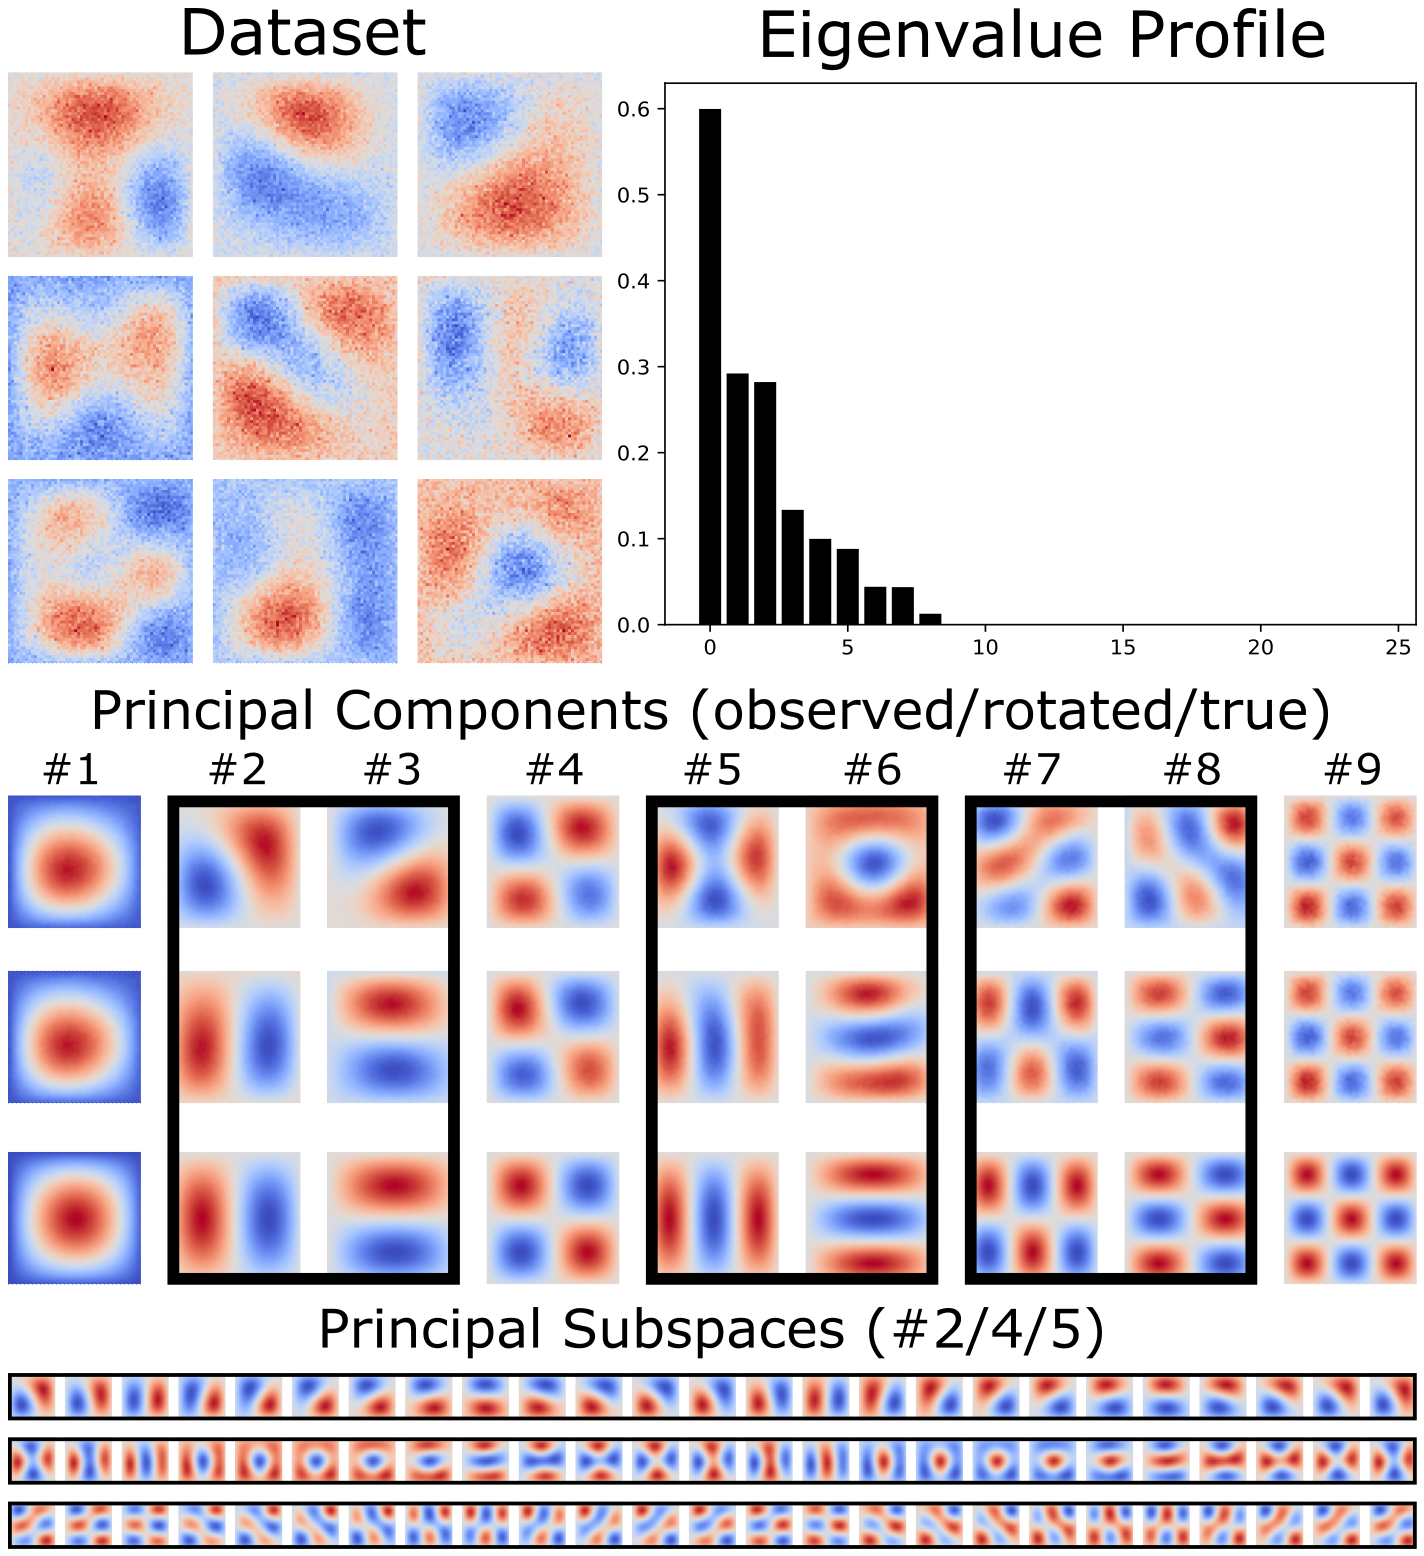
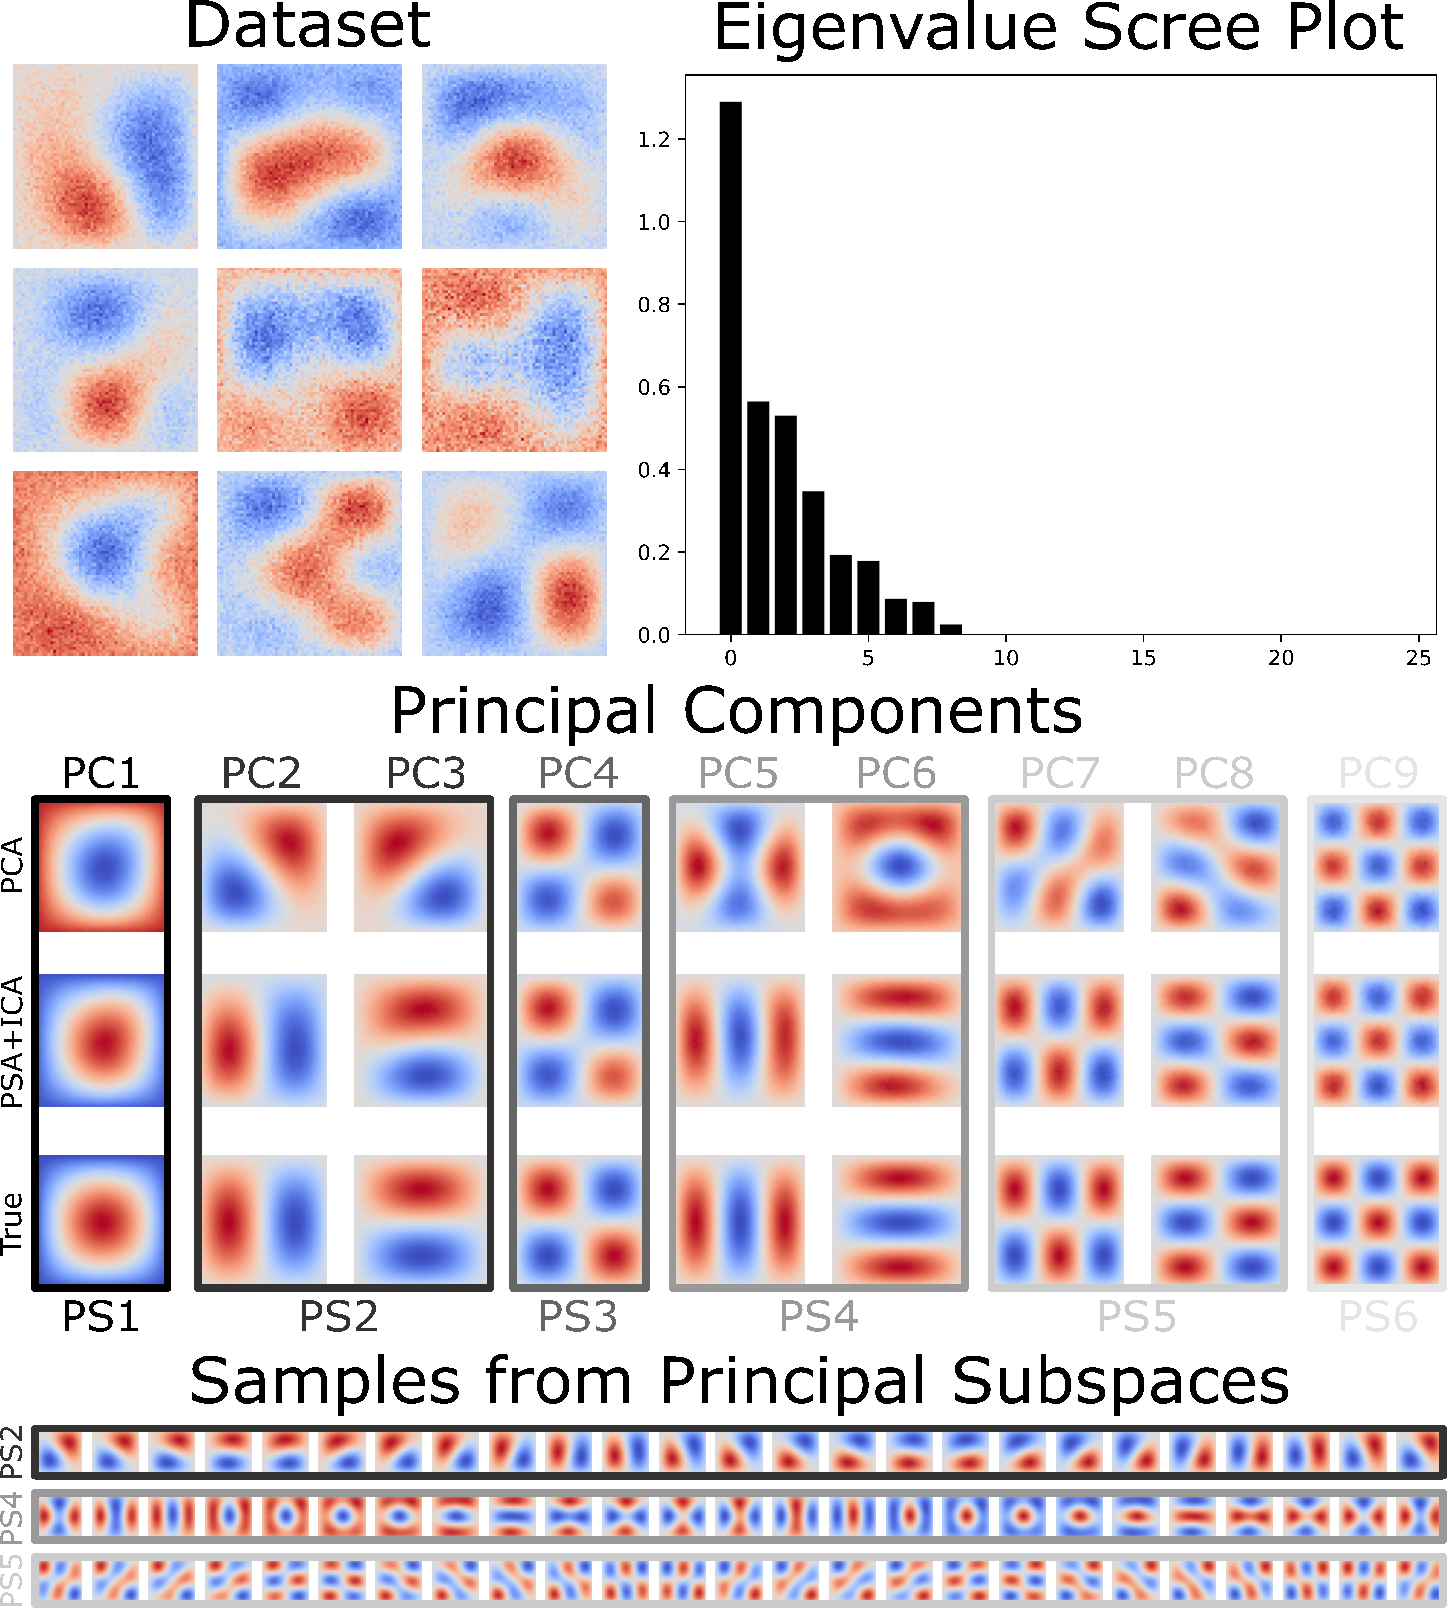
update experiments with "PSA+ICA" methodology, add LR tests and update README.md

diff --git a/experiments/laplacian_eigenfunctions.py b/experiments/laplacian_eigenfunctions.py
@@ -3,7 +3,7 @@ We first generate a dataset similarly as in North et al.'s paper, i.e. linear co
 with variance being a decreasing function of the Laplacian eigenvalue.
 Then we compute the BIC of PPCA model of type (1, 1, 1, 1, 1, 1, 1, 1, 1, 4087) and compare it to a PSA model of type (1, 2, 1, 2, 2, 1, 4087).
 The PSA model has a lower BIC, therefore we choose it.
-Eventually, we perform factor rotation by projecting the original Laplacian eigenmodes onto the multidimensional principal subspaces.
+Eventually, we perform subspace ICA and factor rotation by projecting the original Laplacian eigenmodes onto the multidimensional principal subspaces.
 While principal components degenerate into quasimodes (random mixtures of eigenmodes), principal subspace analysis finds back
 components much closer to the original eigenmodes. We also perform subspace exploration by sampling uniformly from the 2-spheres inside
 the principal subspaces and get low-frequency feature subspaces.
@@ -14,6 +14,7 @@ import numpy as np
 import matplotlib
 matplotlib.use("TkAgg")
 import matplotlib.pyplot as plt
+from sklearn.decomposition import FastICA
 
 from utils import evd, bic
 
@@ -30,8 +31,8 @@ def generate_laplacian_data(size=500, L=64, order=3):
             lambda_nm = (n * np.pi / L) ** 2 + (m * np.pi / L) ** 2  # Laplacian eigenvalue
             u_nm = np.sin(n * np.pi * grid[0] / L) * np.sin(m * np.pi * grid[1] / L)  # Laplacian eigenfunction
             u_nm /= np.linalg.norm(u_nm)
-            modes.append(u_nm); variances.append(np.exp(- 50 * lambda_nm) ** 2 + 0.005 ** 2)
-            coeff = np.random.normal(0, np.exp(- 50 * lambda_nm), size=size)  # coefficient is drawn from a normal distribution with particular variance
+            modes.append(u_nm); variances.append(2 * np.exp(- 50 * lambda_nm) ** 2)
+            coeff = np.random.laplace(0, np.exp(- 50 * lambda_nm), size=size)  # coefficient is drawn from a laplace distribution with particular variance
             X_img += coeff[:, None, None] * u_nm
     X_img += np.random.normal(0, 0.005, size=X_img.shape)  # we add Gaussian noise with small variance
     modes = np.array(modes)[np.argsort(variances)[::-1]]
@@ -43,7 +44,7 @@ if __name__ == "__main__":
 
     # Generate dataset
     L = 64
-    n = 500
+    n = 600
     order = 3
     X_img, modes = generate_laplacian_data(size=n, L=L, order=order)
 
@@ -69,7 +70,7 @@ if __name__ == "__main__":
     bic_psa = bic((1, 2, 1, 2, 2, 1) + (L * L - 9,), eigval, n)
 
     # Plot true Laplacian eigenmodes
-    fig, axes = plt.subplots(3, 9)
+    fig, axes = plt.subplots(4, 9)
     for j, ax in enumerate(axes[0]):
         ax.imshow((modes[j]))
         ax.set_xticklabels([])
@@ -84,10 +85,10 @@ if __name__ == "__main__":
         ax.axis('off')
 
     # Plot rotated principal components (via orthogonal projection of true eigenmodes into principal subspaces)
-    axes[2, 0].imshow((eigvec[:, 0]).reshape(L, L))
+    axes[2, 0].imshow(-(eigvec[:, 0]).reshape(L, L))
     axes[2, 1].imshow((eigvec[:, 1:3] @ eigvec[:, 1:3].T @ modes[1].flatten()).reshape(L, L))
     axes[2, 2].imshow((eigvec[:, 1:3] @ eigvec[:, 1:3].T @ modes[2].flatten()).reshape(L, L))
-    axes[2, 3].imshow((-eigvec[:, 3]).reshape(L, L))
+    axes[2, 3].imshow((eigvec[:, 3]).reshape(L, L))
     axes[2, 4].imshow((eigvec[:, 4:6] @ eigvec[:, 4:6].T @ modes[4].flatten()).reshape(L, L))
     axes[2, 5].imshow((eigvec[:, 4:6] @ eigvec[:, 4:6].T @ modes[5].flatten()).reshape(L, L))
     axes[2, 6].imshow((eigvec[:, 6:8] @ eigvec[:, 6:8].T @ modes[6].flatten()).reshape(L, L))
@@ -97,6 +98,46 @@ if __name__ == "__main__":
         ax.set_xticklabels([])
         ax.set_yticklabels([])
         ax.axis('off')
+
+    # Plot rotated principal components (via ICA)
+    axes[3, 0].imshow(-(eigvec[:, 0]).reshape(L, L))
+    ica = FastICA()
+    X_proj = X @ eigvec[:, 1:3]
+    plt.figure()
+    plt.scatter(*X_proj.T)
+    plt.title("PS2")
+    plt.show()
+    ica.fit(X_proj)
+    U_ica = ica.components_ @ eigvec[:, 1:3].T
+    axes[3, 1].imshow(-U_ica[1].reshape(L, L))
+    axes[3, 2].imshow(-U_ica[0].reshape(L, L))
+    axes[3, 3].imshow((eigvec[:, 3]).reshape(L, L))
+    ica = FastICA()
+    X_proj = X @ eigvec[:, 4:6]
+    plt.figure()
+    plt.scatter(*X_proj.T)
+    plt.title("PS2")
+    plt.show()
+    ica.fit(X_proj)
+    U_ica = ica.components_ @ eigvec[:, 4:6].T
+    axes[3, 4].imshow(-U_ica[0].reshape(L, L))
+    axes[3, 5].imshow(U_ica[1].reshape(L, L))
+    ica = FastICA()
+    X_proj = X @ eigvec[:, 6:8]
+    plt.figure()
+    plt.scatter(*X_proj.T)
+    plt.title("PS2")
+    plt.show()
+    ica.fit(X_proj)
+    U_ica = ica.components_ @ eigvec[:, 6:8].T
+    axes[3, 6].imshow(U_ica[0].reshape(L, L))
+    axes[3, 7].imshow(U_ica[1].reshape(L, L))
+    axes[3, 8].imshow(-(eigvec[:, 8]).reshape(L, L))
+    for ax in axes[3]:
+        ax.set_xticklabels([])
+        ax.set_yticklabels([])
+        ax.axis('off')
+    plt.show()
 
     # Generate samples from the second, fourth and fifth principal subspace (2D)
     fig, axes = plt.subplots(3, 25)

diff --git a/experiments/relative_eigengap.py b/experiments/relative_eigengap.py
@@ -1,9 +1,10 @@
-""" This file implements relative eigengap thresholds under different model selection criteria: AIC, AICc, BIC and North's rule-of-thumb (NRT-1).
+""" This file implements relative eigengap thresholds under different model selection criteria: AIC, AICc, BIC, LR test and North's rule-of-thumb (NRT).
 Those are first compared theoretically via curve plots and second practically on classical real datasets from the UCI ML Repository (https://archive.ics.uci.edu/).
 We can see that NRT-1 has globally the lowest relative eigengaps, followed by AIC, AICc, NRT-2 and BIC.
 Therefore, the BIC more frequently equalizes close-eigenvalues than other methods and has the biggest impact on the PCA methodology.
-On real data, all the methods suggest to consider principal subspaces of dimension greater than $1$, including North's rule-of-thumb.
-Moreover, the number of eigenvalues to equalize seems to increase from NRT to AIC to BIC, but AICc seems to equalize even more eigenvalues than the BIC due to the low-sample correction.
+On real data, all the methods suggest considering principal subspaces of dimension greater than $1$, including North's rule-of-thumb.
+Moreover, the number of eigenvalues to equalize seems to increase from NRT to AIC to BIC, but AICc seems to equalize even more eigenvalues than the BIC
+due to the low-sample correction.
 """
 
 import matplotlib
@@ -12,6 +13,7 @@ matplotlib.rc('font', size=20)
 import matplotlib.pyplot as plt
 import numpy as np
 from ucimlrepo import fetch_ucirepo
+from scipy.stats import chi2
 
 from utils import evd
 
@@ -22,37 +24,47 @@ if __name__ == "__main__":
     # CURVES
     ##########
     plt.figure(figsize=(8, 8))
-    n_list = np.logspace(1, 6.0, num=100)
+    n_list = np.logspace(1, 6, num=100)
     cmap = matplotlib.colormaps["coolwarm"]
 
     # BIC
     phi_bic = 2 * np.log(n_list) / n_list
-    plt.loglog(n_list, 2 * (1 - np.exp(phi_bic) + np.exp(phi_bic / 2) * np.sqrt(np.exp(phi_bic) - 1)), linewidth=3, label="BIC", color=cmap(0/10))
-
-    # North's rule-of-thumb
-    plt.loglog(n_list, (2 * np.sqrt(2 / n_list)) / (1 + np.sqrt(2 / n_list)), linewidth=3, label="NRT", color=cmap(10/10))
-    plt.loglog(n_list, (4 * np.sqrt(2 / n_list)) / (1 + 2 * np.sqrt(2 / n_list)), linewidth=3, color=cmap(10/10))
+    plt.loglog(n_list, 100 * 2 * (1 - np.exp(phi_bic) + np.exp(phi_bic / 2) * np.sqrt(np.exp(phi_bic) - 1)), linewidth=3, label="BIC", color=cmap(0/10))
 
     # AIC
     phi_aic = 4 / n_list
-    plt.loglog(n_list, 2 * (1 - np.exp(phi_aic) + np.exp(phi_aic / 2) * np.sqrt(np.exp(phi_aic) - 1)), linewidth=3, label="AIC", color=cmap(5/10))
+    plt.loglog(n_list, 100 * 2 * (1 - np.exp(phi_aic) + np.exp(phi_aic / 2) * np.sqrt(np.exp(phi_aic) - 1)), linewidth=3, label="AIC", color=cmap(3/10))
 
     # AICc
     phi_aicc = lambda p: (4 * n_list - 4) / ((n_list - p * (p + 3) / 2) ** 2 - 1)
     for i, p in enumerate([10, 100, 1000]):
-        dom = (n_list > p * (p + 3) / 2 + 1)  #  AICc is defined only for n large enough
-        plt.loglog(n_list[dom], 2 * (1 - np.exp(phi_aicc(p)[dom]) + np.exp(phi_aicc(p)[dom] / 2) * np.sqrt(np.exp(phi_aicc(p)[dom]) - 1)), linewidth=3, label="AICc" if p==10 else None, color=cmap(3/10))
+        dom = (n_list > p * (p + 3) / 2 + 1)  # AICc is defined only for n large enough
+        plt.loglog(n_list[dom], 100 * 2 * (1 - np.exp(phi_aicc(p)[dom]) + np.exp(phi_aicc(p)[dom] / 2) * np.sqrt(np.exp(phi_aicc(p)[dom]) - 1)), linewidth=3, linestyle="dashed", alpha=0.8, label="AICc" if p==100 else None, color=cmap(3/10))
+
+    # LR
+    phi_lr = chi2.ppf(0.95, 2) / n_list
+    plt.loglog(n_list, 100 * 2 * (1 - np.exp(phi_lr) + np.exp(phi_lr / 2) * np.sqrt(np.exp(phi_lr) - 1)), linewidth=3, label="LR", color=cmap(5/10))
+
+    # LR + Bonferroni
+    phi_lrb = lambda p: chi2.ppf(1 - .05 / (p - 1), 2) / n_list
+    for i, p in enumerate([10, 100, 1000]):
+        plt.loglog(n_list, 100 * 2 * (1 - np.exp(phi_lrb(p)) + np.exp(phi_lrb(p) / 2) * np.sqrt(np.exp(phi_lrb(p)) - 1)), linewidth=3, linestyle="dashed", alpha=0.8, label="LRc" if p==100 else None, color=cmap(5/10))
+
+    # North's rule of thumb
+    plt.loglog(n_list, 100 * (2 * np.sqrt(2 / n_list)) / (1 + np.sqrt(2 / n_list)), linewidth=3, label="NRT-1", color=cmap(10/10))
+    plt.loglog(n_list, 100 * (4 * np.sqrt(2 / n_list)) / (1 + 2 * np.sqrt(2 / n_list)), linewidth=3, label="NRT-2", linestyle="dashed", alpha=0.5, color=cmap(10/10))
 
     plt.xlabel('Number of samples')
     plt.ylabel('Relative eigengap (%)')
     plt.legend()
     plt.grid(False, which='both')
+    plt.ylim(0.1, 100)
     plt.show()
 
     ##########
     # TABLES
     ##########
-    # UCI ML repository informations
+    # UCI ML repository information
     dataset_names = np.array(['Iris', 'Wisconsin', 'Wine', 'Spambase', 'Glass', 'Covertype', 'Ionosphere', 'Digits'])
     dataset_ids = np.array([53, 17, 109, 94, 42, 31, 52, 80])
     dataset_sizes = np.array([150, 569, 178, 4601, 214, 581012, 351, 5620])

diff --git a/experiments/natural_image_patches.py b/experiments/natural_image_patches.py
@@ -2,7 +2,7 @@
 We first extract a some patches of flower images from the Natural Images database (https://www.kaggle.com/datasets/prasunroy/natural-images).
 Then we compute the BIC of PPCA model of type (1, 1, 1, 1, 1, 251) and compare it to a PSA model of type (2, 3, 251).
 The PSA model has a lower BIC, therefore we choose it.
-Eventually, we perform subspace exploration by sampling uniformly from the 2-sphere and 3-sphere inside the principal subspaces.
+Eventually, we perform subspace ICA and subspace exploration by sampling uniformly from the 2-sphere and 3-sphere inside the principal subspaces.
 We notice the emergence of low-frequency feature subspaces with rotational invariance.
 """
 
@@ -14,6 +14,7 @@ import os
 from skimage import color
 from skimage import io
 from sklearn.feature_extraction.image import extract_patches_2d
+from sklearn.decomposition import FastICA
 
 from utils import evd, bic
 
@@ -35,11 +36,11 @@ if __name__ == "__main__":
 
     # Plot dataset
     fig, axes = plt.subplots(3, 3, figsize=(8, 8))
+    plt.set_cmap('coolwarm')
     for i, ax in enumerate(axes.flatten()):
-        ax.imshow(X[n//10 * i], cmap="gray")
+        ax.imshow(X[n//10 * i])
         ax.axis('off')
     fig.subplots_adjust(wspace=.1, hspace=.1)
-    plt.show()
 
     # Compute BIC of PPCA and PSA models
     X = X.reshape((n, patchsize*patchsize))
@@ -47,28 +48,68 @@ if __name__ == "__main__":
     eigval, eigvec = evd(X)
     plt.figure()
     plt.bar(np.arange(25), eigval[:25], color='k')
-    plt.show()
-    bic_psa = bic((2, 3, p - 5), eigval, n)
-    bic_ppca = bic((1, 1, 1, 1, 1, p - 5), eigval, n)
+    bic_psa = bic((2, 3, 4, p - 9), eigval, n)
+    bic_ppca = bic((1, 1, 1, 1, 1, 1, 1, 1, 1, p - 9), eigval, n)
 
     # Plot principal components
-    plt.set_cmap('gray')
     fig, axes = plt.subplots(1, 9)
     for j, ax in enumerate(axes):
         ax.imshow((eigvec[:, j]).reshape(patchsize, patchsize))
         ax.axis('off')
 
-    # Generate samples from the first principal subspace (2D)
-    fig, axes = plt.subplots(1, 25)
-    for ax, theta in zip(axes, np.linspace(0, 2 * np.pi, 25)):
+    # Generate samples from principal subspaces
+    fig, axes = plt.subplots(3, 20)
+    # PS1
+    for ax, theta in zip(axes[0], np.linspace(0, 2 * np.pi, 25)):
         x, y = np.cos(theta), np.sin(theta)
         ax.imshow((x * eigvec[:, 0] + y * eigvec[:, 1]).reshape(patchsize, patchsize))
         ax.axis('off')
+    # PS2
+    subspace_samples = np.random.multivariate_normal(mean=np.zeros((np.product((patchsize, patchsize)))), cov=np.mean(eigval[2:5]) * eigvec[:, 2:5] @ eigvec[:, 2:5].T, size=25)
+    subspace_samples = subspace_samples / np.linalg.norm(subspace_samples, axis=1)[:, np.newaxis]
+    for i, ax in enumerate(axes[1].flatten()):
+        ax.imshow((subspace_samples[i]).reshape(patchsize, patchsize))
+        ax.axis('off')
+    # PS3
+    subspace_samples = np.random.multivariate_normal(mean=np.zeros((np.product((patchsize, patchsize)))), cov=np.mean(eigval[5:9]) * eigvec[:, 5:9] @ eigvec[:, 5:9].T, size=25)
+    subspace_samples = subspace_samples / np.linalg.norm(subspace_samples, axis=1)[:, np.newaxis]
+    for i, ax in enumerate(axes[2].flatten()):
+        ax.imshow((subspace_samples[i]).reshape(patchsize, patchsize))
+        ax.axis('off')
 
-    # Generate samples from the second principal subspace (3D)
+    # Generate samples from the second principal subspace uniformly (3D)
     fig, axes = plt.subplots(10, 25)
     for i, phi in enumerate(np.linspace(0, np.pi, 10)):
         for ax, theta in zip(axes[i], np.linspace(0, 2 * np.pi, 25)):
             x, y, z = np.sin(phi) * np.cos(theta), np.sin(phi) * np.sin(theta), np.cos(phi)
             ax.imshow((x * eigvec[:, 2] + y * eigvec[:, 3] + z * eigvec[:, 4]).reshape(patchsize, patchsize))
             ax.axis('off')
+
+    # Plot rotated principal components (via ICA)
+    fig, axes = plt.subplots(1, 9)
+    ica = FastICA()
+    X_proj = X @ eigvec[:, :2]
+    ica.fit(X_proj)
+    U_ica = ica.components_ @ eigvec[:, :2].T
+    axes[0].imshow(U_ica[0].reshape(patchsize, patchsize))
+    axes[1].imshow(U_ica[1].reshape(patchsize, patchsize))
+    ica = FastICA()
+    X_proj = X @ eigvec[:, 2:5]
+    ica.fit(X_proj)
+    U_ica = ica.components_ @ eigvec[:, 2:5].T
+    axes[2].imshow(U_ica[0].reshape(patchsize, patchsize))
+    axes[3].imshow(U_ica[1].reshape(patchsize, patchsize))
+    axes[4].imshow(U_ica[2].reshape(patchsize, patchsize))
+    ica = FastICA()
+    X_proj = X @ eigvec[:, 5:9]
+    ica.fit(X_proj)
+    U_ica = ica.components_ @ eigvec[:, 5:9].T
+    axes[5].imshow(U_ica[0].reshape(patchsize, patchsize))
+    axes[6].imshow(U_ica[1].reshape(patchsize, patchsize))
+    axes[7].imshow(U_ica[2].reshape(patchsize, patchsize))
+    axes[8].imshow(U_ica[3].reshape(patchsize, patchsize))
+    for ax in axes:
+        ax.set_xticklabels([])
+        ax.set_yticklabels([])
+        ax.axis('off')
+    plt.show()

diff --git a/experiments/eigenfaces.py b/experiments/eigenfaces.py
@@ -1,7 +1,7 @@
 """ This file implements the eigenface experiment with Principal Subspace Analysis.
 We first extract a dataset from the CMU Face images database (https://archive.ics.uci.edu/dataset/124/cmu+face+images).
 Then we compute the BIC of PPCA model of type (1, 1, 1, 1, 1, 1, 1, 1, 1, 3831) and compare it to a PSA model of type (1, 3, 5, 3831).
-The PSA model has a lower BIC, therefore we choose it. Eventually, we perform subspace exploration by sampling from
+The PSA model has a lower BIC, therefore we choose it. Eventually, we perform subspace ICA and subspace exploration by sampling from
 the second 3D principal subspace via the PSA generative model, and plot a few samples to gain intuition about the principal subspace.
 While eigenfaces are fuzzy being linear mixtures of images, principal subspace analysis enables to extract much more interpretable
 eigenfaces within the 3D principal subspace, corresponding to head rotation movements.
@@ -16,6 +16,7 @@ import os
 from skimage.io import imread
 from skimage.filters.rank import entropy
 from skimage.morphology import disk
+from sklearn.decomposition import FastICA
 
 from utils import evd, bic
 
@@ -68,4 +69,20 @@ if __name__ == "__main__":
         ax.set_xticklabels([])
         ax.set_yticklabels([])
         ax.axis('off')
+    plt.show()
+
+    # Perform ICA in the second principal subspace (3D)
+    ica = FastICA()
+    X_proj = (X - mu) @ eigvec[:, 1:4]
+    ica.fit(X_proj)
+    U_ica = ica.components_ @ eigvec[:, 1:4].T
+    fig, axes = plt.subplots(1, 3)
+    axes[0].imshow((mu+np.mean(eigval[1:4])*U_ica[0]).reshape(60, 64))
+    axes[1].imshow((mu+np.mean(eigval[1:4])*U_ica[1]).reshape(60, 64))
+    axes[2].imshow((mu+np.mean(eigval[1:4])*U_ica[2]).reshape(60, 64))
+    plt.show()
+    fig, axes = plt.subplots(1, 3)
+    axes[0].imshow((mu-np.mean(eigval[1:4])*U_ica[0]).reshape(60, 64))
+    axes[1].imshow((mu-np.mean(eigval[1:4])*U_ica[1]).reshape(60, 64))
+    axes[2].imshow((mu-np.mean(eigval[1:4])*U_ica[2]).reshape(60, 64))
     plt.show()

diff --git a/README.md b/README.md
@@ -1,6 +1,6 @@
 # principal-subspace-analysis
 
-Authors' implementation of [_The curse of isotropy: from principal components to principal subspaces_](https://arxiv.org/abs/2307.15348).
+Authors' implementation of ["Szwagier and Pennec (2026), The Curse of Isotropy: from Principal Components to Principal Subspaces, _Statistical Science_"](https://arxiv.org/abs/2307.15348).
 
 ![A typical example of Principal Subspace Analysis pipeline](PSA_Laplacian.png)
 
@@ -24,7 +24,7 @@ We recall the simple methodology of principal subspace analysis:
 
 ## Typical pipeline
 
-Consider a dataset of `n = 500` image patches with `64 * 64` pixels, gathered in a data matrix `X` of shape `(500, 4096)`.
+Consider a dataset of `n = 600` image patches with `64 * 64` pixels, gathered in a data matrix `X` of shape `(500, 4096)`.
 We perform the eigenvalue decomposition of the sample covariance matrix and plot the eigenvalue profile.
 ```python
 eigval, eigvec = evd(X)
@@ -36,7 +36,7 @@ We check that this PSA model is indeed better than the associated PPCA model `(1
 bic_psa  = bic((1,  2,   1,  2,    2,   1, 4087), eigval, n)
 bic_ppca = bic((1, 1, 1, 1, 1, 1, 1, 1, 1, 4087), eigval, n)
 ```
-Finally, we explore the associated principal subspaces by uniform sampling.
+Finally, we explore the associated principal subspaces via ICA or uniform sampling.
 For instance, the second principal subspace is 2D, and we sample uniformly some 
 unit components on the 2-sphere.
 ```python
@@ -51,7 +51,7 @@ We notice the emergence of low-frequency feature subspaces with rotational invar
 
 ## Remarks
 
-- Many details about the methodology are provided in the **Supplementary Information (SI) Appendix** (notably some alternative model selection methods). 
+- Many details about the methodology are provided in the **Supplementary Material** (notably some alternative model selection methods). 
 - In high dimensions, the classical trick of *covariance regularization* might be a good idea to prevent from small positive or null eigenvalues.
 Indeed, such eigenvalues can yield large relative eigengaps and cause automatic model selection methods to give poor results. 
 You can use for instance the following script:
@@ -82,15 +82,12 @@ pip install -r requirements.txt
 ## Citation
 
 ```bibtex
-@misc{szwagier_curse_2024,
-      title={The curse of isotropy: from principal components to principal subspaces}, 
-      author={Tom Szwagier and Xavier Pennec},
-      year={2024},
-      eprint={2307.15348},
-      archivePrefix={arXiv},
-      primaryClass={stat.ME},
-      url={https://arxiv.org/abs/2307.15348},
-      doi = {10.48550/arXiv.2307.15348},
-      keywords = {Principal Component Analysis, Isotropy, Interpretability, Parsimonious Models, Flag Manifolds},
+@article{szwagier_curse_2026,
+    author = {Szwagier, Tom and Pennec, Xavier},
+    title = {The Curse of Isotropy: from Principal Components to Principal Subspaces},
+    journal = {Statistical Science},
+    year = {2026},
+    note = {In press.},
+    url = {https://arxiv.org/abs/2307.15348},
 }
 ```
